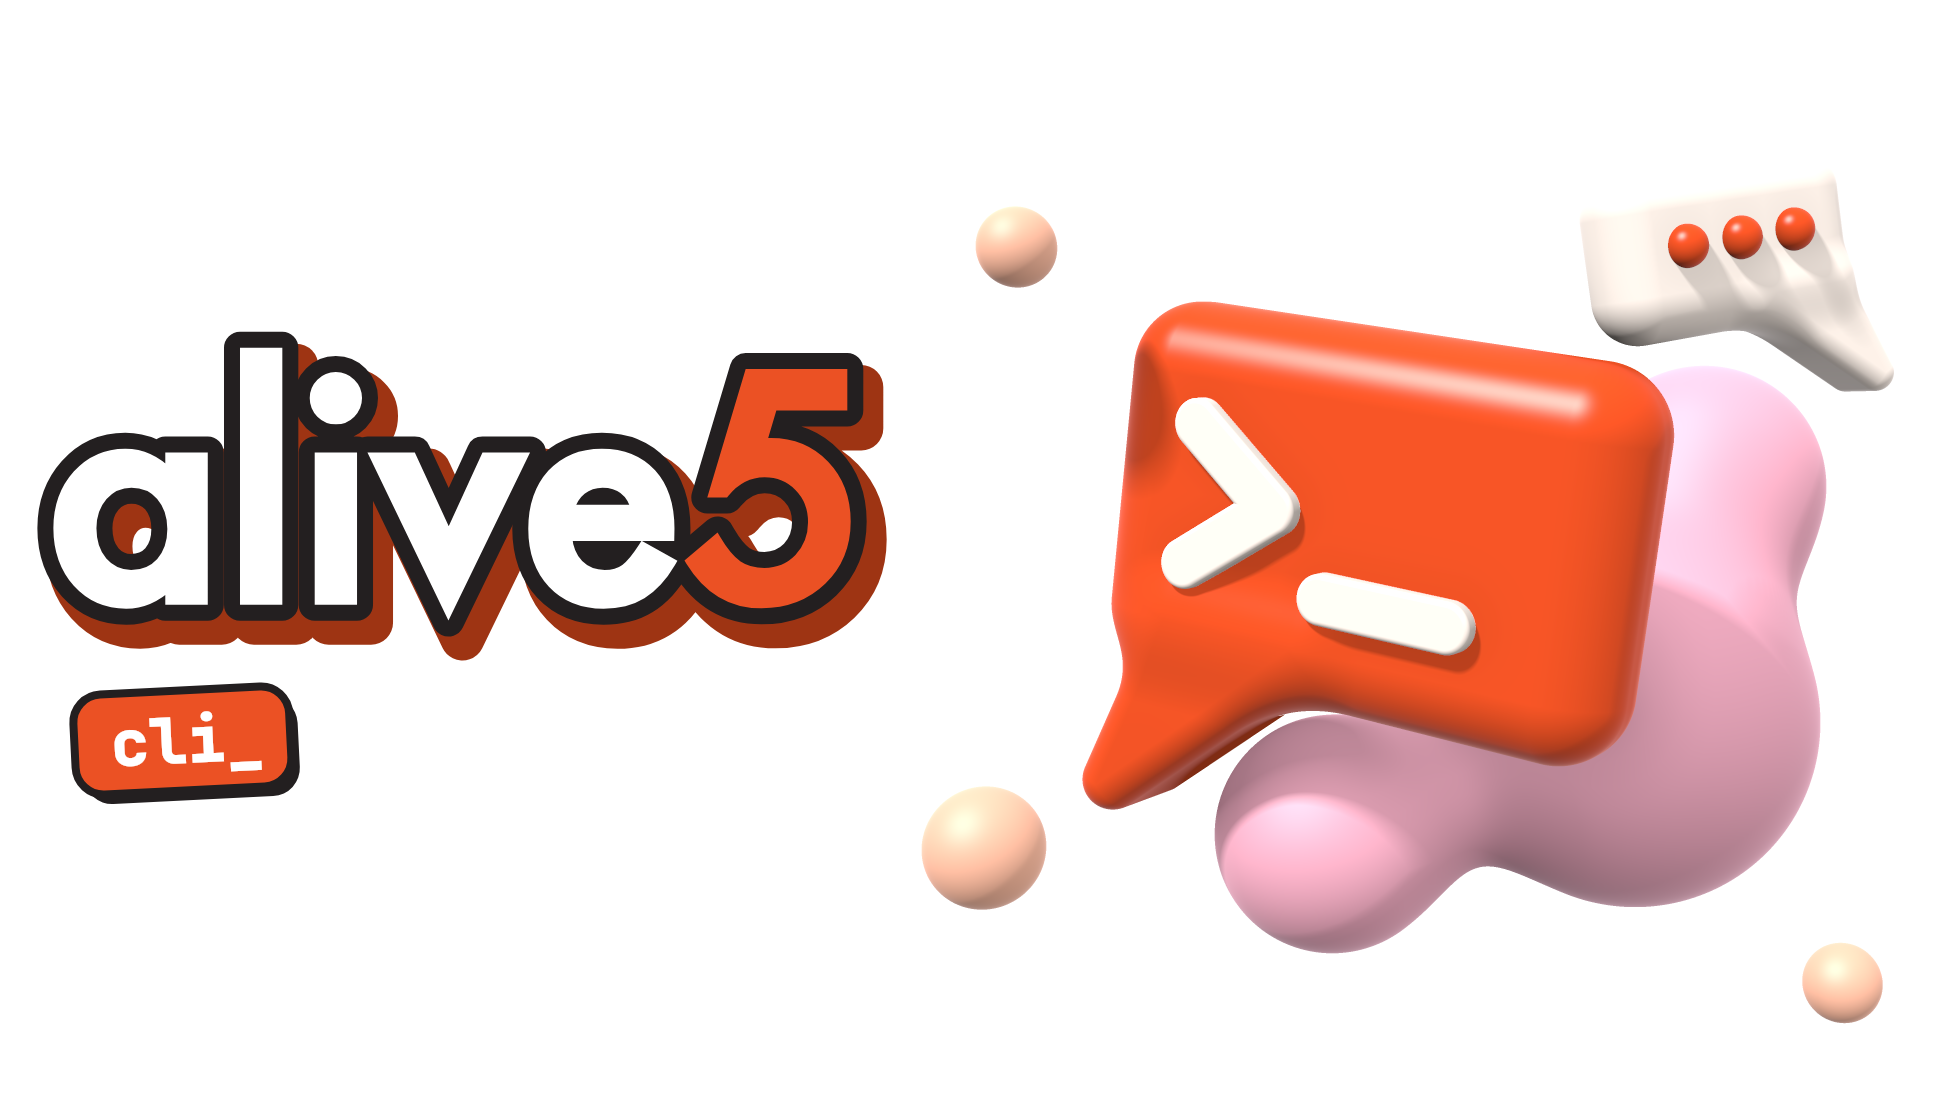
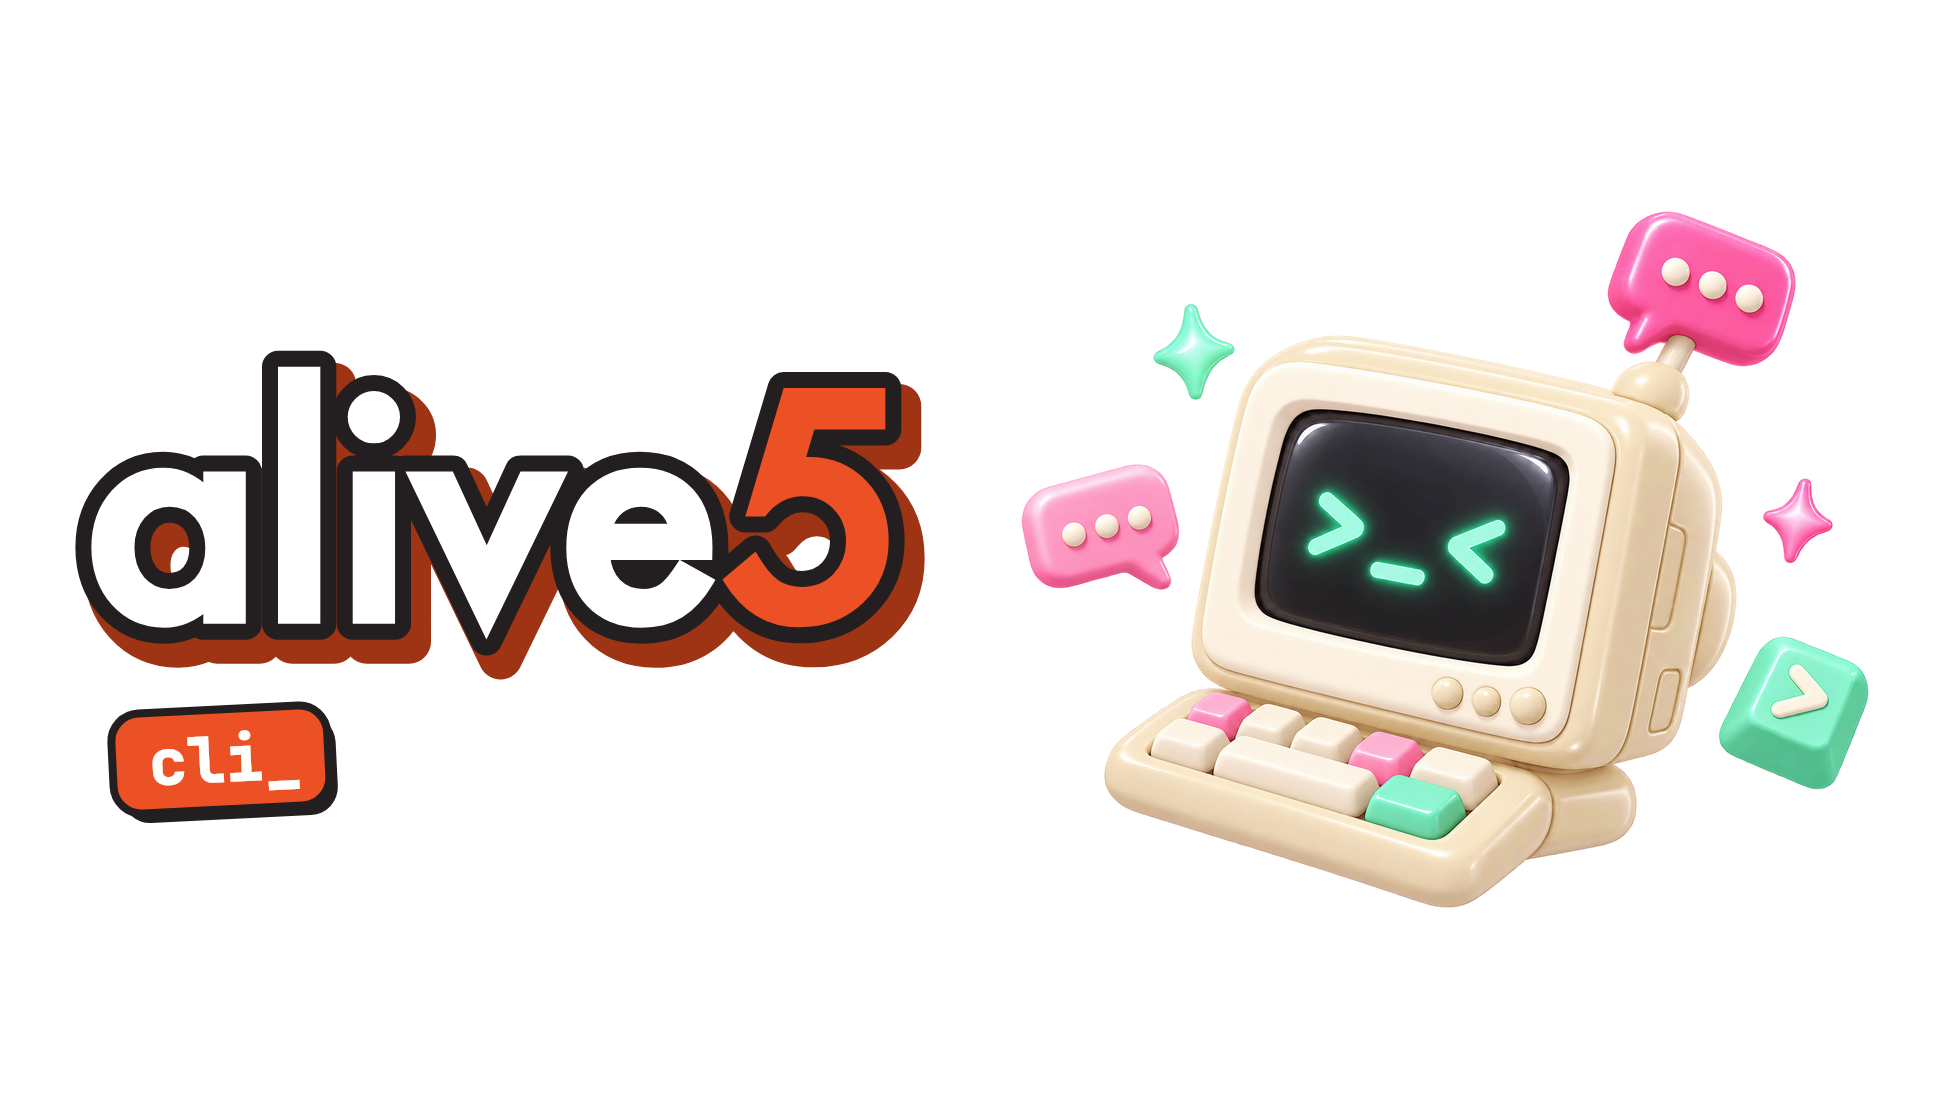
Refresh the README hero with the retro terminal mascot

Changed region(s): [[0.0, 0.1562, 0.9648, 0.875], [0.9026, 0.8438, 0.9648, 0.9375], [0.498, 0.1875, 0.5602, 0.2812]]

diff --git a/README.md b/README.md
@@ -1,6 +1,6 @@
 # Alive5 CLI
 
-<img src="docs/media/hero.png" width="500" alt="The alive5 wordmark beside an orange 3D chat bubble with a terminal prompt">
+<img src="docs/media/hero.png" width="560" alt="The alive5 wordmark beside a cute retro cream computer with a terminal-prompt face">
 
 Read conversations, reply, and send texts from your terminal. The same commands return clean JSON for scripts and AI agents.
 
